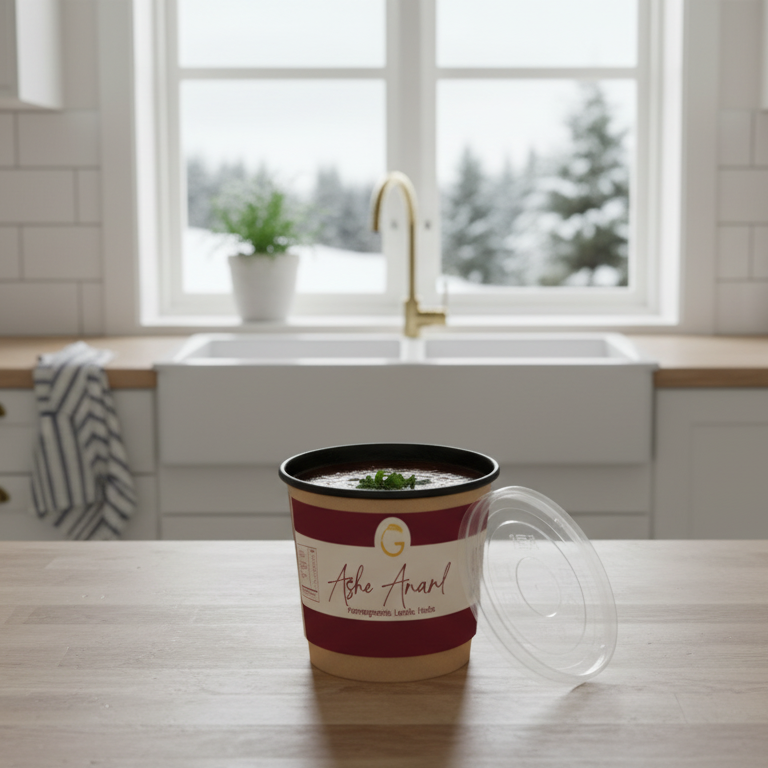
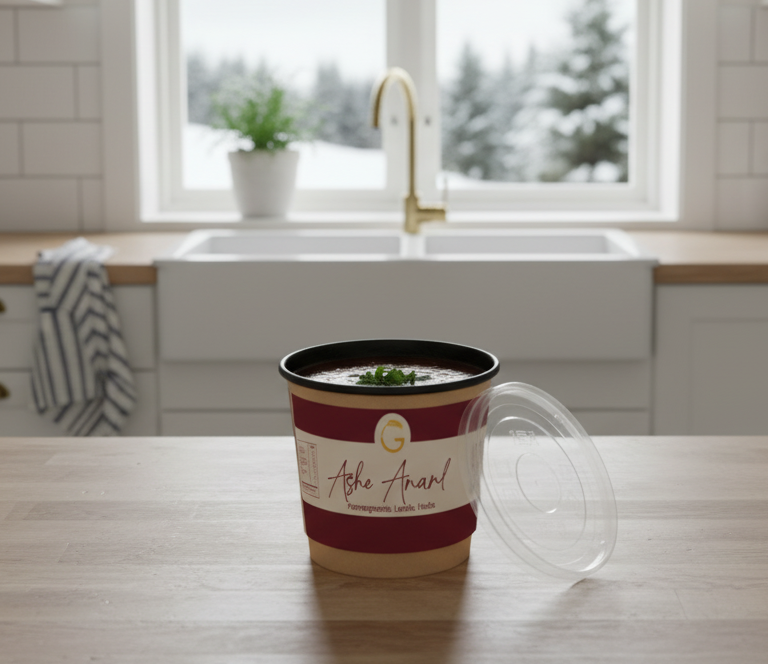
updated

diff --git a/src/data/productData.js b/src/data/productData.js
@@ -3,11 +3,14 @@ import AsheReshteh2 from "../assets/Images/2.Dishes/Foodora - Ashe Reshteh.png";
 import AsheReshteh3 from "../assets/Images/2.Dishes/Ashe Reshteh.png";
 import AsheReshteh4 from "../assets/Images/2.Dishes/Menu - Ashe Reshteh.png";
 import AsheAnar1 from "../assets/Images/2.Dishes/Ashe Anar 1.png";
+import AsheAnar2 from "../assets/Images/2.Dishes/Foodora - Ashe Anar.png";
+import AsheAnar3 from "../assets/Images/2.Dishes/Menu - Ashe Anar.png";
 import AsheDoogh1 from "../assets/Images/2.Dishes/Ashe Doogh 1.png";
 import Abhgoosht from "../assets/Images/2.Dishes/Abgoosht1.png";
 import Halim from "../assets/Images/2.Dishes/Halim.png";
 import SholeZard1 from "../assets/Images/2.Dishes/Shole Zard 1.png";
 import SoyWaffle from "../assets/Images/2.Dishes/Soy Waffle.png";
+import SoyWaffle2 from "../assets/Images/2.Dishes/Soy Waffle 2.png";
 import VegetarianHerb from "../assets/Images/2.Dishes/Waffle - Vegetarian Herb.png";
 import HerbalDelightWaffle from "../assets/Images/2.Dishes/Waffle - Herbal Delight.png";
 import WaffleBeetroot from "../assets/Images/2.Dishes/Waffle - Beetroot.png";
@@ -40,7 +43,7 @@ export const productData = {
       title: "Ashe Anar",
       price: "15",
       ratingnum: "3.5",
-      images: [AsheAnar1],
+      images: [AsheAnar1, AsheAnar2, AsheAnar3],
       hoverimage: MenuBox,
       customizations: [
         { label: "Vegetarian", id: "vegetarian" },
@@ -94,7 +97,7 @@ export const productData = {
       title: "Soy Waffle",
       price: "10",
       ratingnum: "4.5",
-      images: [SoyWaffle],
+      images: [SoyWaffle, SoyWaffle2],
       hoverimage: MenuBox,
     },
     {